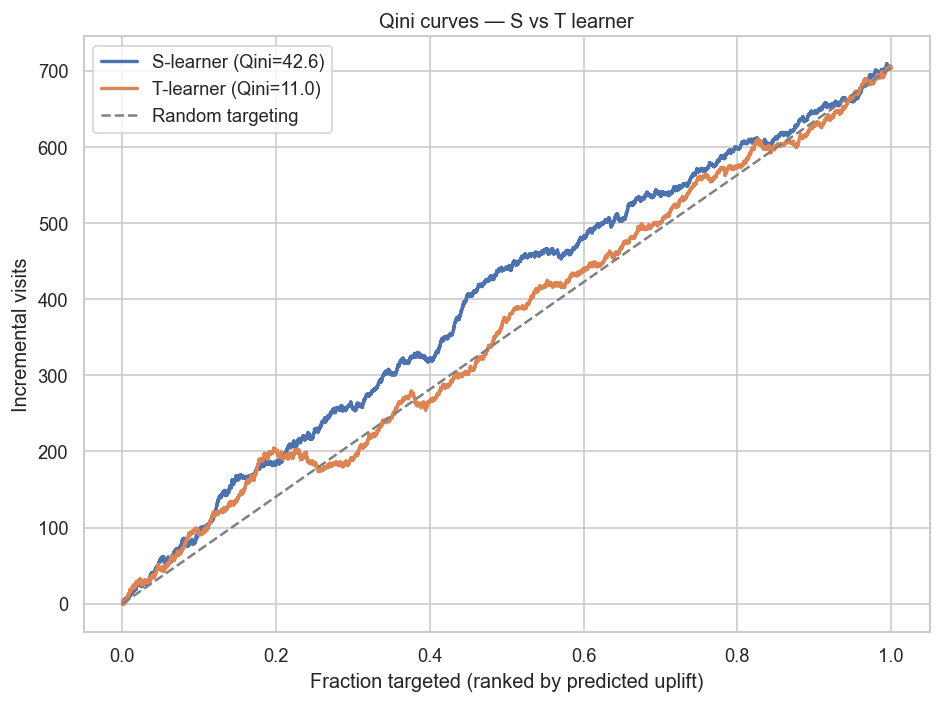
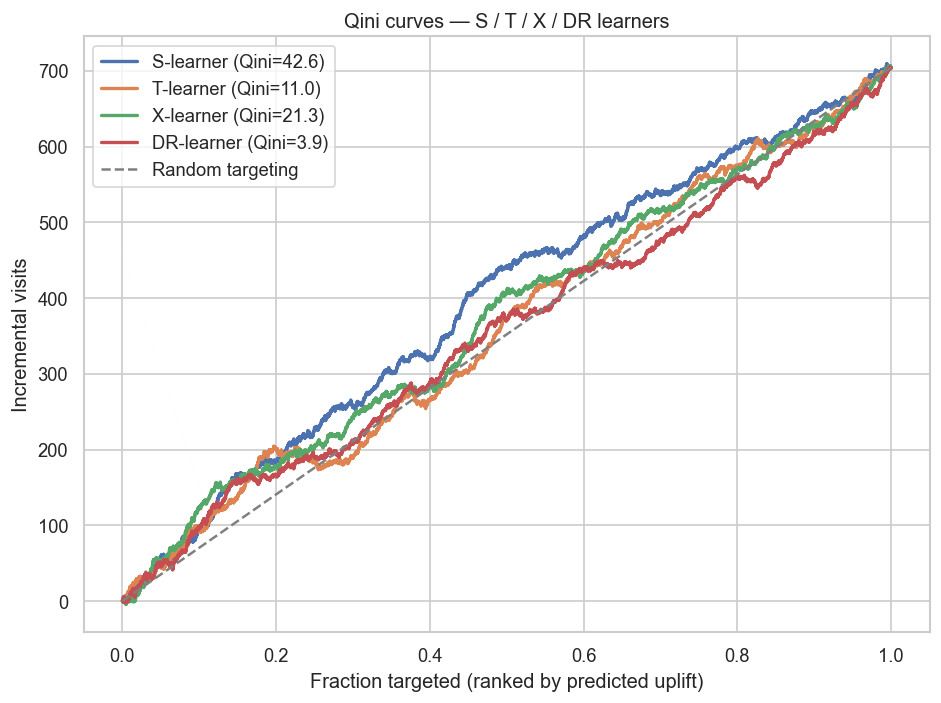
Add X-learner and DR-learner meta-learners
- XLearner (Künzel et al. 2019): two-stage learner that repairs T-learner
  instability; beats T-learner on Hillstrom (Qini 21.3 vs 11.0)
- DRLearner: doubly-robust pseudo-outcome CATE learner (echoes the DR estimator
  in the recsys OPE project)
- notebook 03 now compares all four learners (S/T/X/DR) on equal footing
- 6 uplift tests (added X/DR persuadable-recovery test)

diff --git a/src/uplift/learners.py b/src/uplift/learners.py
@@ -64,6 +64,97 @@ class TLearner:
         return p1 - p0
 
 
+class XLearner:
+    """X-learner (Künzel et al. 2019).
+
+    Fixes the T-learner's weakness on imbalanced arms by a second stage. First
+    fit outcome models per arm (like the T-learner). Then *impute* the treatment
+    effect for every unit against the other arm's model and fit a dedicated
+    effect (CATE) regressor on each arm's imputed effects. Finally blend the two
+    effect models by the propensity, which lets the arm with more data dominate
+    where it is more reliable.
+
+        1. mu0, mu1  : outcome models on control / treated  (classifiers)
+        2. D1 = Y1 - mu0(X1)   (imputed effect for treated units)
+           D0 = mu1(X0) - Y0   (imputed effect for control units)
+        3. tau1, tau0 : regressors fit on D1 / D0
+        4. tau(x) = e(x)*tau0(x) + (1 - e(x))*tau1(x)
+
+    ``outcome_model`` is a classifier (uses predict_proba); ``effect_model`` is a
+    regressor for the imputed continuous effects.
+    """
+
+    def __init__(self, outcome_model, effect_model, propensity: float | None = None):
+        self.mu0 = clone(outcome_model)
+        self.mu1 = clone(outcome_model)
+        self.tau0 = clone(effect_model)
+        self.tau1 = clone(effect_model)
+        self.propensity = propensity  # constant e; if None, use treated share
+
+    def fit(self, X: pd.DataFrame, treatment: np.ndarray, y: np.ndarray) -> XLearner:
+        treatment = np.asarray(treatment)
+        y = np.asarray(y)
+        Xt, Xc = X[treatment == 1], X[treatment == 0]
+        yt, yc = y[treatment == 1], y[treatment == 0]
+
+        self.mu1.fit(Xt, yt)
+        self.mu0.fit(Xc, yc)
+
+        # impute individual treatment effects against the opposite arm
+        d1 = yt - self.mu0.predict_proba(Xt)[:, 1]
+        d0 = self.mu1.predict_proba(Xc)[:, 1] - yc
+        self.tau1.fit(Xt, d1)
+        self.tau0.fit(Xc, d0)
+
+        self._e = treatment.mean() if self.propensity is None else self.propensity
+        return self
+
+    def predict_uplift(self, X: pd.DataFrame) -> np.ndarray:
+        return self._e * self.tau0.predict(X) + (1 - self._e) * self.tau1.predict(X)
+
+
+class DRLearner:
+    """Doubly-Robust learner (single-split).
+
+    Builds a pseudo-outcome that is unbiased if *either* the outcome model or the
+    propensity is right — the same doubly-robust idea used for off-policy
+    evaluation in the sibling recsys project, here applied to individual
+    treatment effects:
+
+        psi = (mu1 - mu0)
+              + W*(Y - mu1)/e
+              - (1-W)*(Y - mu0)/(1-e)
+
+    A regressor is then fit on ``psi`` to give a smooth CATE estimate. This
+    single-split version is fine for a demonstration; production DR-learners
+    cross-fit the nuisance models to remove own-observation bias.
+    """
+
+    def __init__(self, outcome_model, effect_model, propensity: float | None = None):
+        self.mu0 = clone(outcome_model)
+        self.mu1 = clone(outcome_model)
+        self.tau = clone(effect_model)
+        self.propensity = propensity
+
+    def fit(self, X: pd.DataFrame, treatment: np.ndarray, y: np.ndarray) -> DRLearner:
+        w = np.asarray(treatment).astype(float)
+        y = np.asarray(y)
+        e = w.mean() if self.propensity is None else self.propensity
+        e = np.clip(e, 1e-3, 1 - 1e-3)
+
+        self.mu1.fit(X[w == 1], y[w == 1])
+        self.mu0.fit(X[w == 0], y[w == 0])
+        m1 = self.mu1.predict_proba(X)[:, 1]
+        m0 = self.mu0.predict_proba(X)[:, 1]
+
+        psi = (m1 - m0) + w * (y - m1) / e - (1 - w) * (y - m0) / (1 - e)
+        self.tau.fit(X, psi)
+        return self
+
+    def predict_uplift(self, X: pd.DataFrame) -> np.ndarray:
+        return self.tau.predict(X)
+
+
 def qini_curve(
     uplift: np.ndarray, treatment: np.ndarray, y: np.ndarray
 ) -> tuple[np.ndarray, np.ndarray]:

diff --git a/tests/test_uplift.py b/tests/test_uplift.py
@@ -2,11 +2,13 @@
 
 import numpy as np
 import pandas as pd
-from sklearn.linear_model import LogisticRegression
+from sklearn.linear_model import LinearRegression, LogisticRegression
 
 from src.uplift.learners import (
+    DRLearner,
     SLearner,
     TLearner,
+    XLearner,
     qini_coefficient,
     qini_curve,
     uplift_at_k,
@@ -51,6 +53,17 @@ def test_learners_recover_persuadable_signal():
         model = Learner(LogisticRegression(max_iter=1000)).fit(X, t, y)
         up = model.predict_uplift(X)
         mask = X["persuadable"] == 1
+        assert up[mask].mean() > up[~mask].mean()
+
+
+def test_x_and_dr_learners_recover_persuadable_signal():
+    """The two-stage learners (X, DR) should also rank persuadables above inert
+    customers. They take a classifier for outcomes and a regressor for effects."""
+    X, t, y = _synthetic_uplift_data(n=8000)
+    mask = (X["persuadable"] == 1).to_numpy()
+    for Learner in (XLearner, DRLearner):
+        model = Learner(LogisticRegression(max_iter=1000), LinearRegression()).fit(X, t, y)
+        up = model.predict_uplift(X)
         assert up[mask].mean() > up[~mask].mean()
 
 

diff --git a/README.md b/README.md
@@ -36,8 +36,8 @@ own:
    sample-ratio mismatch.
 2. **Analyse rigorously** — power/sample-size up front, lift + confidence
    intervals, multiple-comparison correction, CUPED variance reduction.
-3. **Model heterogeneity** — S- and T-learner meta-learners implemented from
-   scratch, evaluated with the Qini curve.
+3. **Model heterogeneity** — S-, T-, X- and DR-learner meta-learners implemented
+   from scratch, evaluated with the Qini curve.
 4. **Drive a decision** — convert uplift scores into a profit-optimal targeting
    policy and compare against naive strategies.
 
@@ -54,7 +54,7 @@ email-uplift-causal/
 │   ├── experiment/
 │   │   └── ab.py             # sample size, z-test, SRM, CUPED, Bonferroni
 │   ├── uplift/
-│   │   └── learners.py       # S/T-learner + Qini curve/coefficient (from scratch)
+│   │   └── learners.py       # S/T/X/DR-learners + Qini curve/coefficient (from scratch)
 │   └── evaluation/
 │       └── plots.py          # Qini, uplift-decile, covariate-balance plots
 ├── notebooks/
@@ -93,18 +93,25 @@ shows **no sample-ratio mismatch** (χ² p = 0.996). CUPED with prior-spend as t
 covariate removes little variance here — a useful negative result: CUPED only
 pays off when the covariate genuinely predicts the metric.
 
-### 3. Uplift modeling — S-learner beats T-learner
+### 3. Uplift modeling — four meta-learners compared
 
 | Model | Qini coefficient |
 |-------|------------------|
 | **S-learner** | **42.6** |
+| X-learner | 21.3 |
 | T-learner | 11.0 |
+| DR-learner | 3.9 |
 | Random targeting | 0.0 |
 
 The T-learner differences two separately-trained models; on a ~15% base-rate
 binary outcome that noise dominates and its Qini curve sits close to random. The
-S-learner, sharing one model with treatment as a feature, ranks the
-persuadables far more reliably.
+**X-learner** repairs exactly this — its second stage imputes individual effects
+and fits a dedicated CATE regressor — and duly beats the T-learner. The
+**S-learner**, sharing one model with treatment as a feature, is the most stable
+ranker here. The **DR-learner**'s single-split doubly-robust pseudo-outcome is
+high-variance for *ranking* individual effects on a binary outcome (doubly-robust
+estimation pays off more for the *average* policy value — see the sibling recsys
+off-policy-evaluation project); cross-fitting would cut this variance.
 
 ![Qini curves](reports/figures/03_qini_curves.png)
 